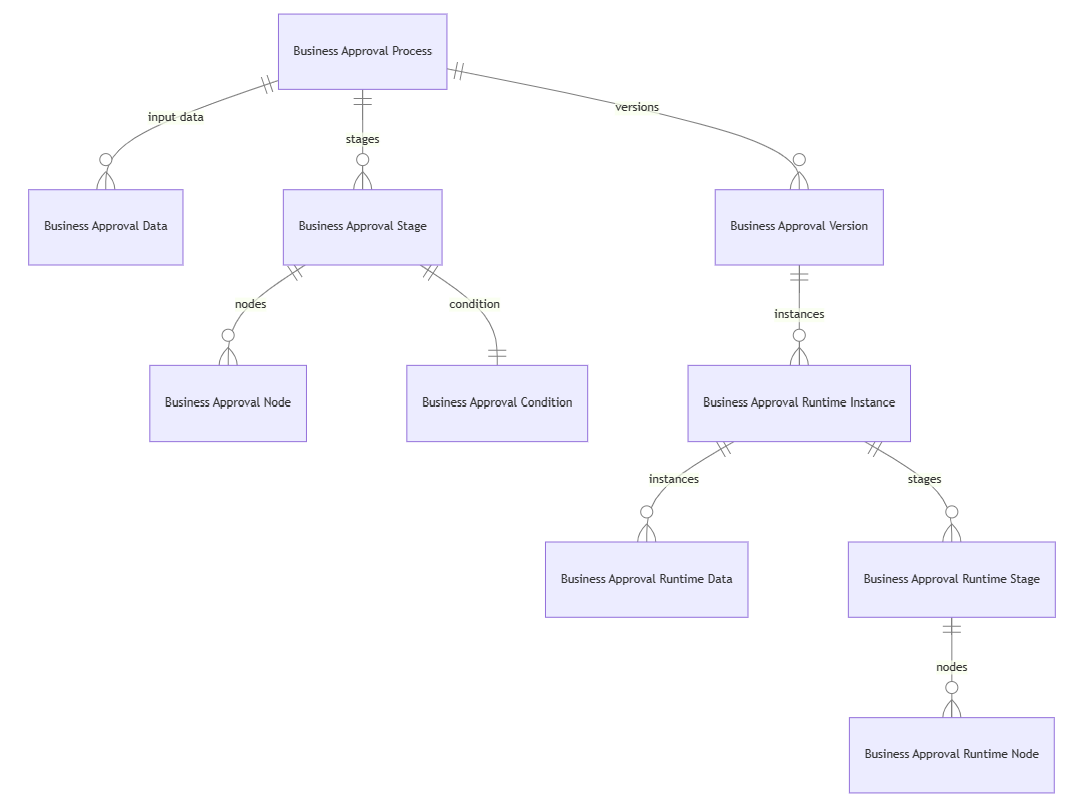
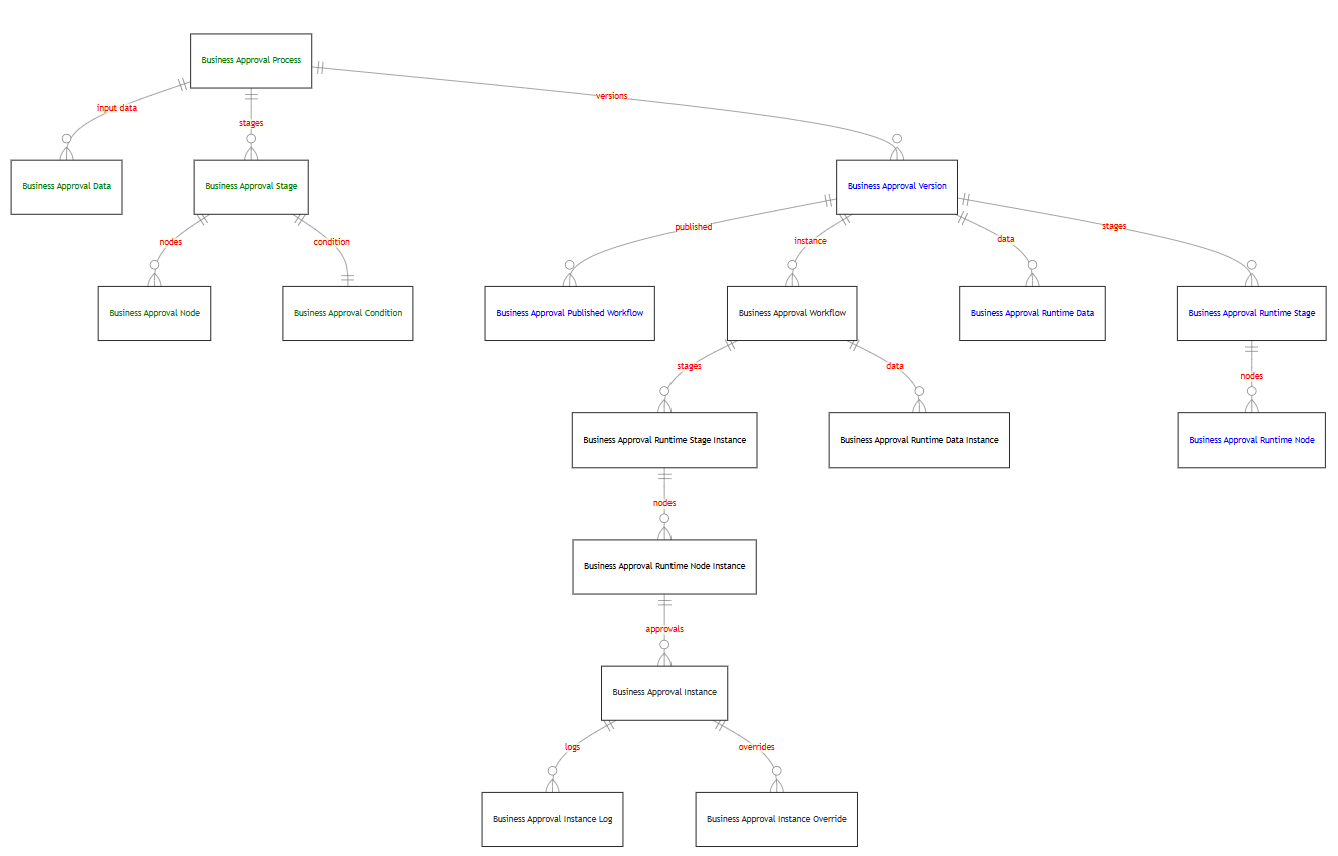
Data model update

diff --git a/articles/guidance/business-approvals-templates/what-is-in-the-approval-kit.md b/articles/guidance/business-approvals-templates/what-is-in-the-approval-kit.md
@@ -16,7 +16,8 @@ ms.reviewer: angieandrews
 
 There are mainly two types of tables used in approval templates.
 
-- Process Definition Tables - Define the approval processes. This is used to lookup and configure approval processes to your business needs.
+- Process Definition Tables - Define the approval processes. This is used to lookup and configure approval processes to your business needs
+- Version Tables - Define the versions of published processes
 - Reference Tables - Define approvers, work profile and calendar dates
 - Runtime Tables - Store the results/status of the approvals
 
@@ -31,9 +32,7 @@ The following tables are used for definition
 |Business Approval Stage |On record per stage within the approval process|"Manager Approval" or "Line Manager Approval"
 |Business Approval Condition|Define optional condition for a stage|None, If, Switch
 |Business Approval Node|Defines each step of the approval including the type of approval of that step and the approver|
-|Business Approval Version|A saved version of a business approval process|
-|Business Approval Published Workflow|Defined a published approval process version|
-|Business Approval Published Runtime Data|Defined data for a published approval process version|
+
 
 ### Reference Tables
 
@@ -44,21 +43,38 @@ The following tables are used for definition
 |Business Approval Holiday Calendar|Define the company holidays|Non work days and weekend such as Saturdays
 |Business Approval Public Holidays|Define the holidays separate from the organization holiday
 
+### Version Tables
+
+|Name|Description|Example(s)|
+|----|----------|-------|
+|Business Approval Version|A saved version of a business approval process|
+|Business Approval Published Workflow|Defined a published approval process version|
+|Business Approval Published Runtime Data|Defined data for a published approval process version|
+|Business Approval Published Runtime Stage|Defined stage or stages for a published approval process version|
+|Business Approval Published Runtime Node|Defined node or nodes for a published approval process stage|
+
 ### Runtime Tables
 
-Each time a new approval requests are made, data is stored into runtime tables based on the configuration of the definition tables.
+Each time a new approval requests are made, data is stored into runtime instance tables based on the configuration of the definition version tables.
 
 |Name|Description|Notes|
 |----|----------|-------|
-|Business Approval Runtime Instance|Used to manage all incoming approval requests and the related tables used for the request|Created approval generated from data in your source triggered system. Created for a version of a published business approval process
-|Business Approval Runtime Data|Is used to store the metadata of what is defined in approval data|For example, if you have defined "Request Amount" in Approval Data table, the Instance Data would store the actual request amount for the request
-|Business Approval Runtime Node|Stores a copy of Nodes transactional reference to the approval request. It is used to hold each transactional step of the approval including the type of approval of that step and the approver|
+|Business Approval Workflow|Used to manage all incoming approval requests and the related tables used for the request|Created approval generated from data in your source triggered system. Created for a version of a published business approval process
+|Business Approval Runtime Data Instance|Is used to store the metadata of what is defined in approval data|For example, if you have defined "Request Amount" in Approval Data table, the Instance Data would store the actual request amount for the request
+|Business Approval Runtime Stage Instance|creates a working copy of Business Approval Stage version. It is used to hold each transactional stage of the approval|Any changes made during runtime is saved here
 |Business Approval Runtime Node Instance|creates a working copy of Nodes transactional reference to the approval request. It is used to hold each transactional step of the approval including the type of approval of that step and the approver|Any changes made during runtime is saved here
-|Business Approval Runtime Stage|Stores a transactional reference of Business Approval Stage.|
-|Business Approval Runtime Stage Instance|creates a working copy of Business Approval Stage. It is used to hold each transactional stage of the approval|Any changes made during runtime is saved here
+|Business Approval Instance|Stores a transactional reference of Approval for a specific node instance|
+|Business Approval Instance Log|Stores a transactional reference of Approval reference and outcome|
+|Business Approval Instance Override|Stores a transactional a new approver that overrides the original approval instance|
 
 ### Data Model
 
-Entity Relationship diagram that shows the relationships between key tables
+Entity Relationship diagram that shows the relationships between key tables.
+
+Notes:
+
+- Tables in green are the current working version of a Business Approval Process
+- Tables in blue are the related tables that save information about a version of a process
+- Tables in black are the related tables that save transactional information a specific approval process
 
 ![Entity Relationship diagram that shows the relationships between key tables](./media/datamodel.png)

diff --git a/articles/guidance/business-approvals-templates/introduction.md b/articles/guidance/business-approvals-templates/introduction.md
@@ -32,3 +32,6 @@ These templates cover some of the typical requirements in most organizations, in
 - Delegate others to approve
 - View approvals progress and history
 - Manage out of office for employees
+- Support for versions of approval process
+- Publish version approval workflow
+- Handling of work days and public holidays
